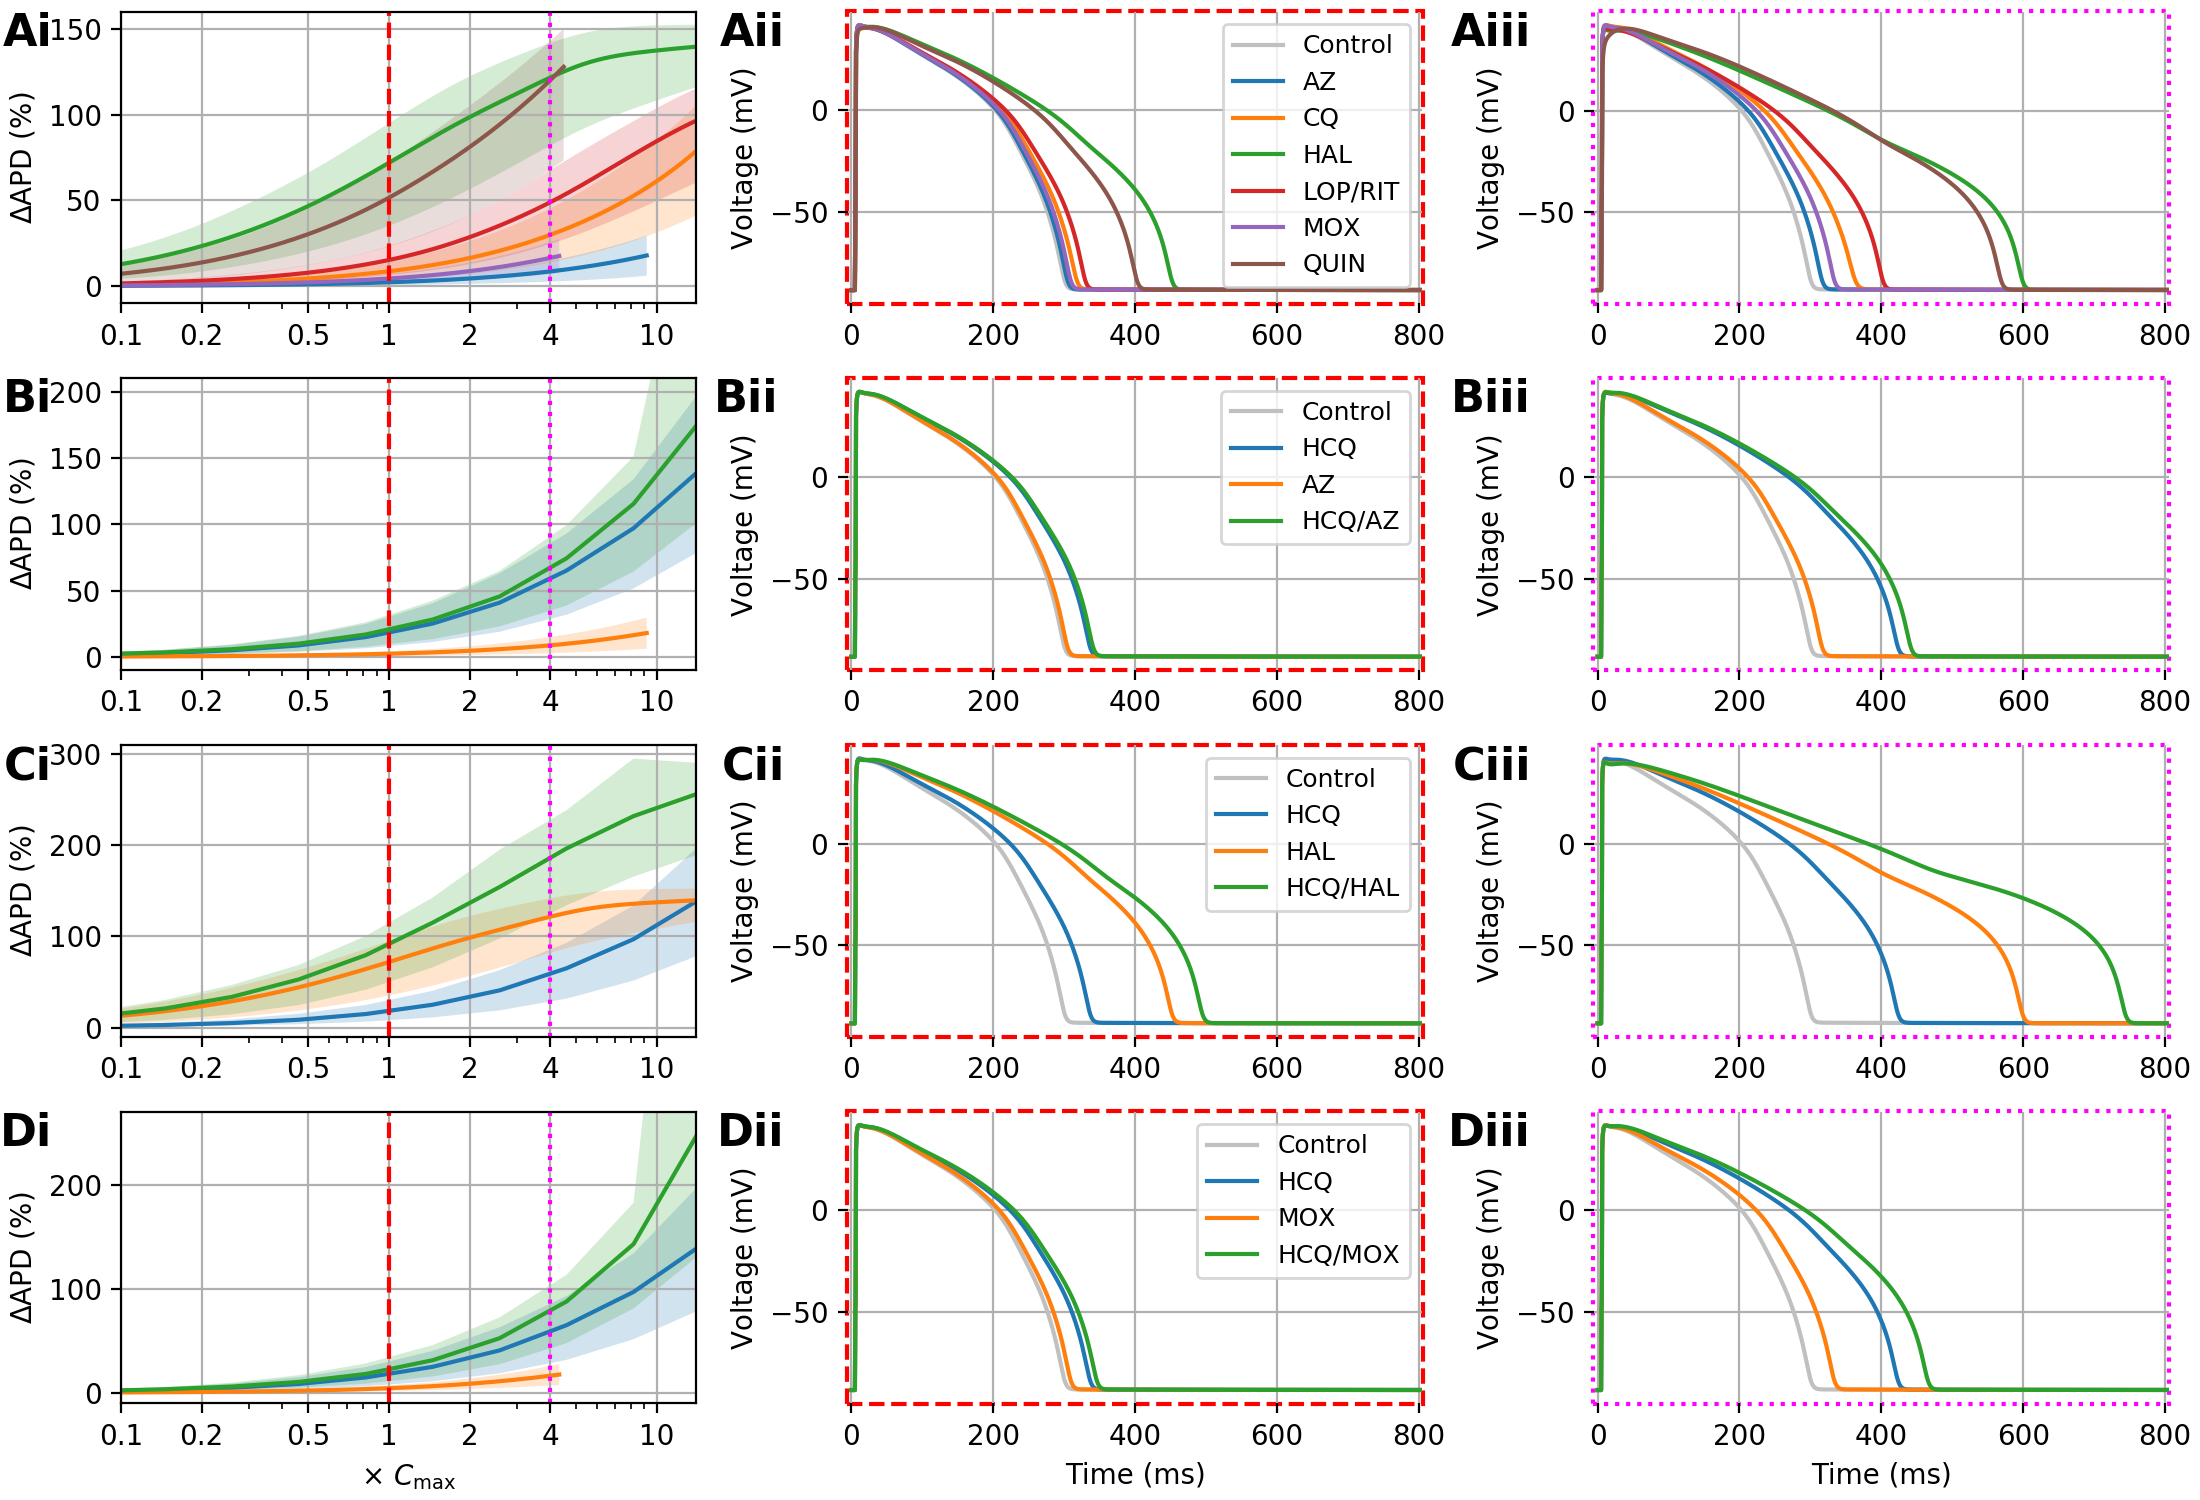
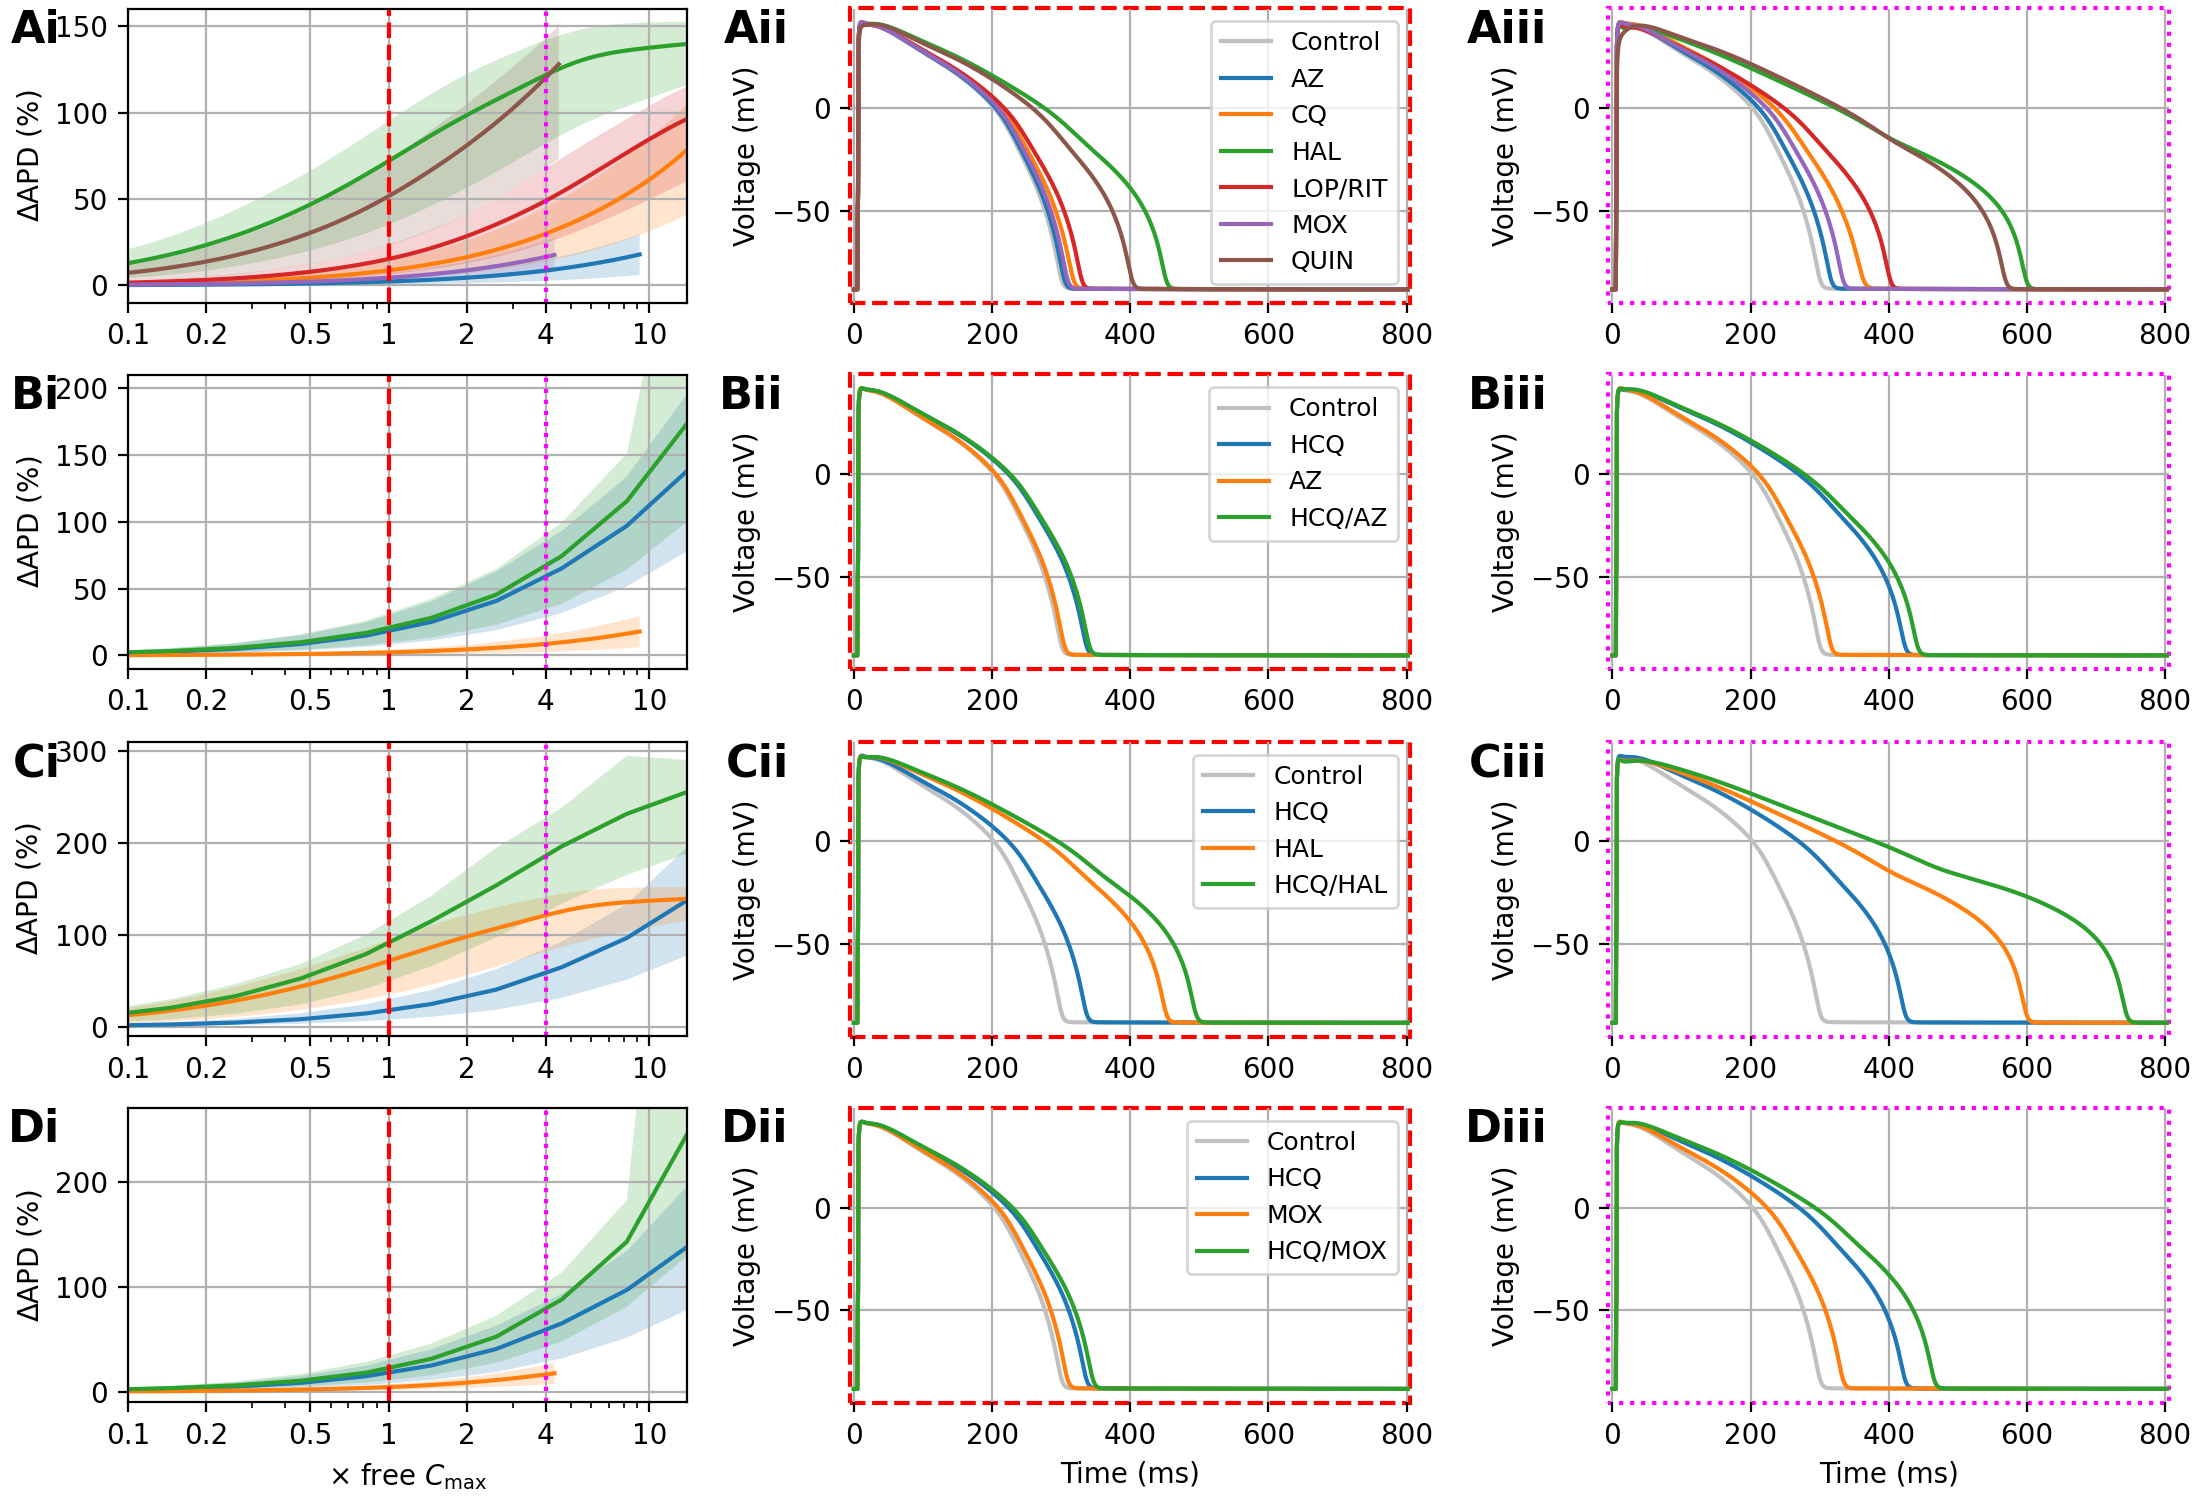
Update figure labels to free Cmax

diff --git a/Figure1.py b/Figure1.py
@@ -312,7 +312,7 @@ plt.semilogx(c_hmox, am_hmox, color=cmap(2))
 ax10.fill_between(c_hmox, al_hmox, ah_hmox, facecolor=cmap(2), edgecolor=None, alpha=0.2)
 plt.axvline(1, color='red', linestyle='dashed')
 plt.axvline(4, color='magenta', linestyle='dotted')
-ax10.set_xlabel( r'$\times$ $C_{\rm{max}}$' )
+ax10.set_xlabel( r'$\times$ free $C_{\rm{max}}$' )
 ax10.set_ylabel( r'$\Delta$APD (%)' )
 ax10.set_xticks([0.1, 0.2, 0.5, 1, 2, 4, 10])
 ax10.set_xticklabels([0.1, 0.2, 0.5, 1, 2, 4, 10])

diff --git a/FigureS1.py b/FigureS1.py
@@ -68,7 +68,7 @@ ax2.fill_between(c_hcq, ql_hcq, qh_hcq, facecolor=cmap(2), edgecolor=None, alpha
 plt.semilogx(c_hhcq, qm_hhcq, color=cmap(3), label='HCQ-high')
 ax2.fill_between(c_hhcq, ql_hhcq, qh_hhcq, facecolor=cmap(3), edgecolor=None, alpha=0.2)
 ax2.legend()
-ax2.set_xlabel( r'$\times$ $C_{\rm{max}}$' )
+ax2.set_xlabel( r'$\times$ free $C_{\rm{max}}$' )
 ax2.set_ylabel( 'qNet (C/F)' )
 ax2.set_xticks([0.01, 0.1, 1, 4, 10])
 ax2.set_xticklabels([0.01, 0.1, 1, 4, 10])

diff --git a/Figure2.py b/Figure2.py
@@ -83,7 +83,7 @@ ax2.fill_between(c_hhal, ql_hhal, qh_hhal, facecolor=cmap(2), edgecolor=None, al
 plt.semilogx(c_hmox, qm_hmox, color=cmap(3), label='HCQ/MOX')
 ax2.fill_between(c_hmox, ql_hmox, qh_hmox, facecolor=cmap(3), edgecolor=None, alpha=0.2)
 ax2.legend()
-ax2.set_xlabel( r'$\times$ $C_{\rm{max}}$' )
+ax2.set_xlabel( r'$\times$ free $C_{\rm{max}}$' )
 ax2.set_ylabel( 'qNet (C/F)' )
 ax2.set_xticks([0.01, 0.1, 1, 4, 10])
 ax2.set_xticklabels([0.01, 0.1, 1, 4, 10])
